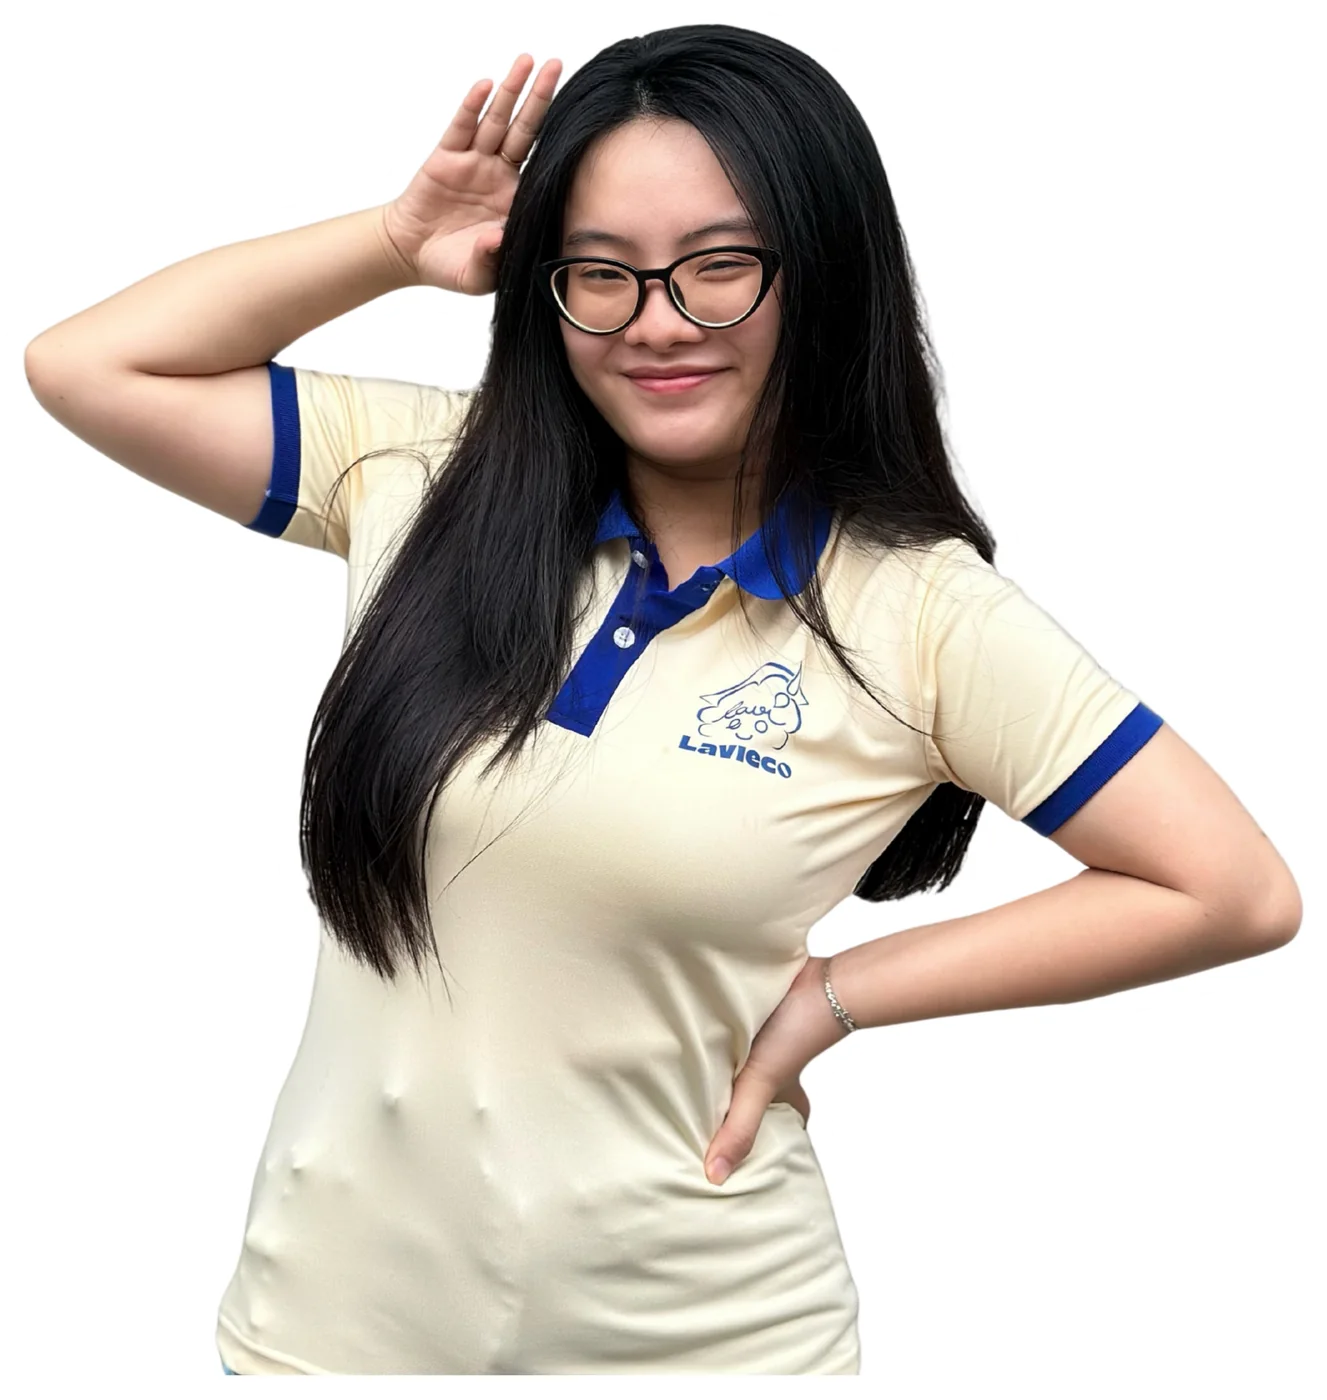
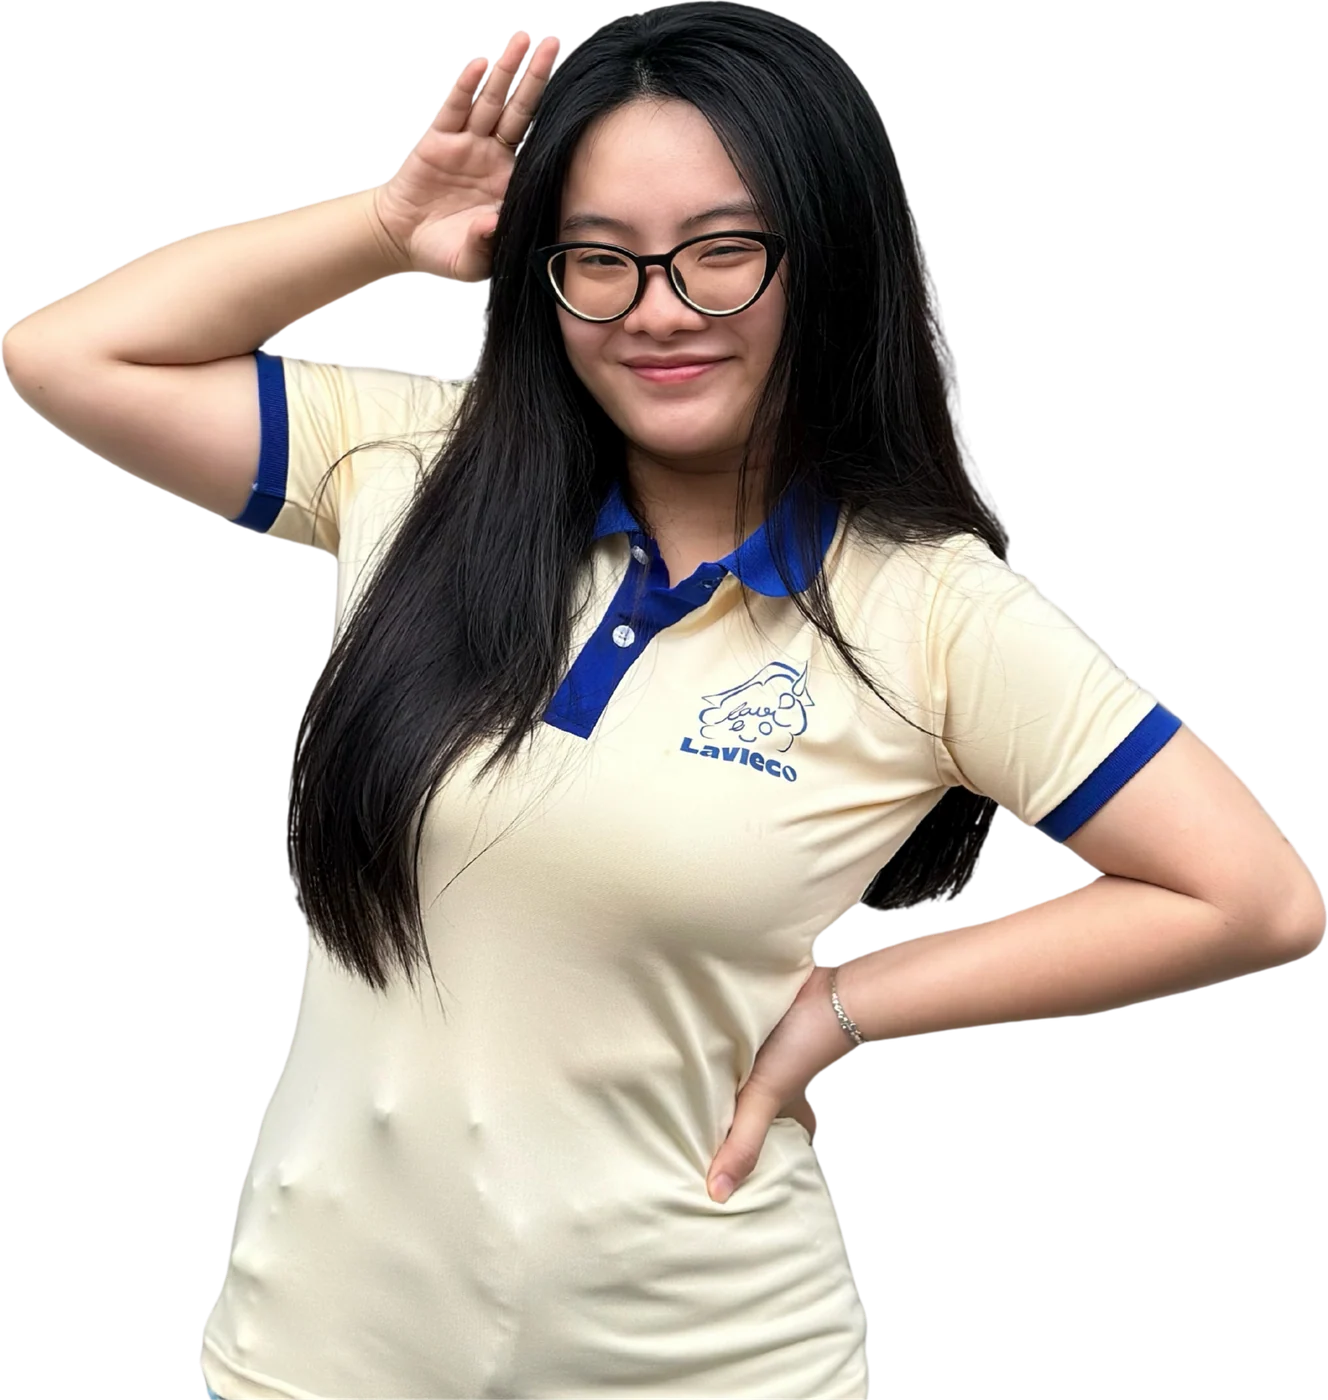
chore(web): add borderless team cutouts and rename sticker set
Borderless set (from the new source cutouts) becomes <slug>-cutout.webp for
the grid cards; the white-outlined set is renamed <slug>-sticker.webp for the
profile view. Drops the stray unused vo-chi-trong-sticker.png.

diff --git a/apps/web/src/features/team/constants/members.ts b/apps/web/src/features/team/constants/members.ts
@@ -10,10 +10,18 @@ import type { TeamContacts, TeamImage, TeamMember } from "../types";
  * Sample text deliberately contains no figures, years, school or place names.
  *
  * TODO(consent): each person must consent to their photo being published (AC6, docs/04 §5.1).
- * Photos are white-outlined cutouts (`/images/team/<slug>-cutout.webp`, alpha, trimmed).
+ * Two alpha cutouts per person, both trimmed to 1400px tall:
+ * - `<slug>-cutout.webp`: borderless, used on the grid card (the card supplies the edge light).
+ * - `<slug>-sticker.webp`: white-outlined, used in the open profile only (loaded lazily).
  */
 const cutout = (slug: string, width: number): TeamImage => ({
   src: `/images/team/${slug}-cutout.webp`,
+  width,
+  height: 1400,
+});
+
+const sticker = (slug: string, width: number): TeamImage => ({
+  src: `/images/team/${slug}-sticker.webp`,
   width,
   height: 1400,
 });
@@ -75,7 +83,8 @@ export const MEMBERS: readonly TeamMember[] = [
       email: "#",
       github: "#",
     },
-    photo: cutout("vo-chi-trong", 822),
+    photo: cutout("vo-chi-trong", 807),
+    sticker: sticker("vo-chi-trong", 822),
     backdrop: "network",
     draft: true,
   },
@@ -98,7 +107,8 @@ export const MEMBERS: readonly TeamMember[] = [
     achievements: SAMPLE_ACHIEVEMENTS,
     notes: SAMPLE_NOTES,
     contacts: SAMPLE_CONTACTS,
-    photo: cutout("ngo-chuc-quynh", 1075),
+    photo: cutout("ngo-chuc-quynh", 1065),
+    sticker: sticker("ngo-chuc-quynh", 1075),
     backdrop: "particles",
     draft: true,
   },
@@ -121,7 +131,8 @@ export const MEMBERS: readonly TeamMember[] = [
     achievements: SAMPLE_ACHIEVEMENTS,
     notes: SAMPLE_NOTES,
     contacts: { facebook: "#", email: "#", behance: "#" },
-    photo: cutout("le-do-minh-vy", 821),
+    photo: cutout("le-do-minh-vy", 801),
+    sticker: sticker("le-do-minh-vy", 821),
     backdrop: "palette",
     photoScale: 0.93,
     draft: true,
@@ -145,7 +156,8 @@ export const MEMBERS: readonly TeamMember[] = [
     achievements: SAMPLE_ACHIEVEMENTS,
     notes: SAMPLE_NOTES,
     contacts: { facebook: "#", zalo: "#", email: "#" },
-    photo: cutout("nguyen-dinh-xuan-anh", 753),
+    photo: cutout("nguyen-dinh-xuan-anh", 740),
+    sticker: sticker("nguyen-dinh-xuan-anh", 753),
     backdrop: "stairs",
     photoScale: 0.96,
     draft: true,
@@ -169,7 +181,8 @@ export const MEMBERS: readonly TeamMember[] = [
     achievements: SAMPLE_ACHIEVEMENTS,
     notes: SAMPLE_NOTES,
     contacts: { facebook: "#", email: "#", linkedin: "#" },
-    photo: cutout("tran-ngoc-thi", 979),
+    photo: cutout("tran-ngoc-thi", 958),
+    sticker: sticker("tran-ngoc-thi", 979),
     backdrop: "story",
     photoScale: 0.86,
     draft: true,
@@ -193,7 +206,8 @@ export const MEMBERS: readonly TeamMember[] = [
     achievements: SAMPLE_ACHIEVEMENTS,
     notes: SAMPLE_NOTES,
     contacts: { facebook: "#", email: "#", github: "#", linkedin: "#" },
-    photo: cutout("tieu-phung", 1327),
+    photo: cutout("tieu-phung", 1328),
+    sticker: sticker("tieu-phung", 1327),
     backdrop: "keyhole",
     photoScale: 0.88,
     draft: true,

diff --git a/apps/web/src/features/team/types.ts b/apps/web/src/features/team/types.ts
@@ -52,8 +52,10 @@ export type TeamMember = {
   /** At most two. */
   notes?: readonly TeamNote[];
   contacts?: TeamContacts;
-  /** White-outlined cutout (alpha) shown on the grid arch and in the profile. */
+  /** Borderless cutout (alpha) shown on the grid arch. */
   photo: TeamImage;
+  /** White-outlined cutout (alpha) shown in the open profile only. */
+  sticker: TeamImage;
   /** Which illustrated backdrop sits behind the cutout on the grid card. */
   backdrop: Backdrop;
   /** Multiplies the cutout height on the card (1 = default overhang). Evens out framing. */

diff --git a/apps/web/src/features/team/components/profile-portrait.tsx b/apps/web/src/features/team/components/profile-portrait.tsx
@@ -103,7 +103,7 @@ export function ProfilePortrait({ member, phase, rect, reduced }: ProfilePortrai
           transition={{ layout: transition }}
         >
           <Image
-            src={member.photo.src}
+            src={member.sticker.src}
             alt={getPhotoAlt(member)}
             fill
             sizes="(min-width: 1024px) 500px, 70vw"
